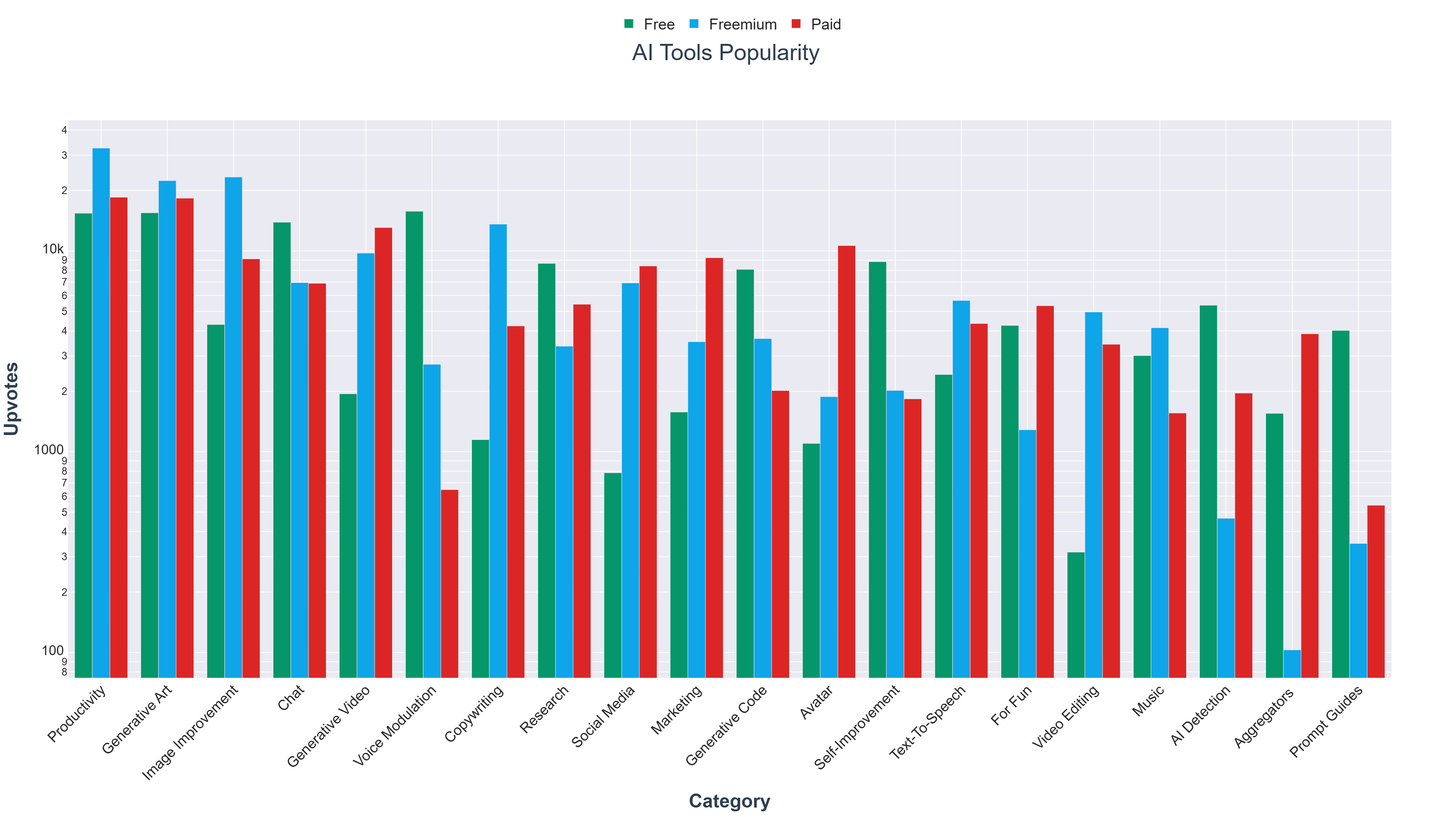
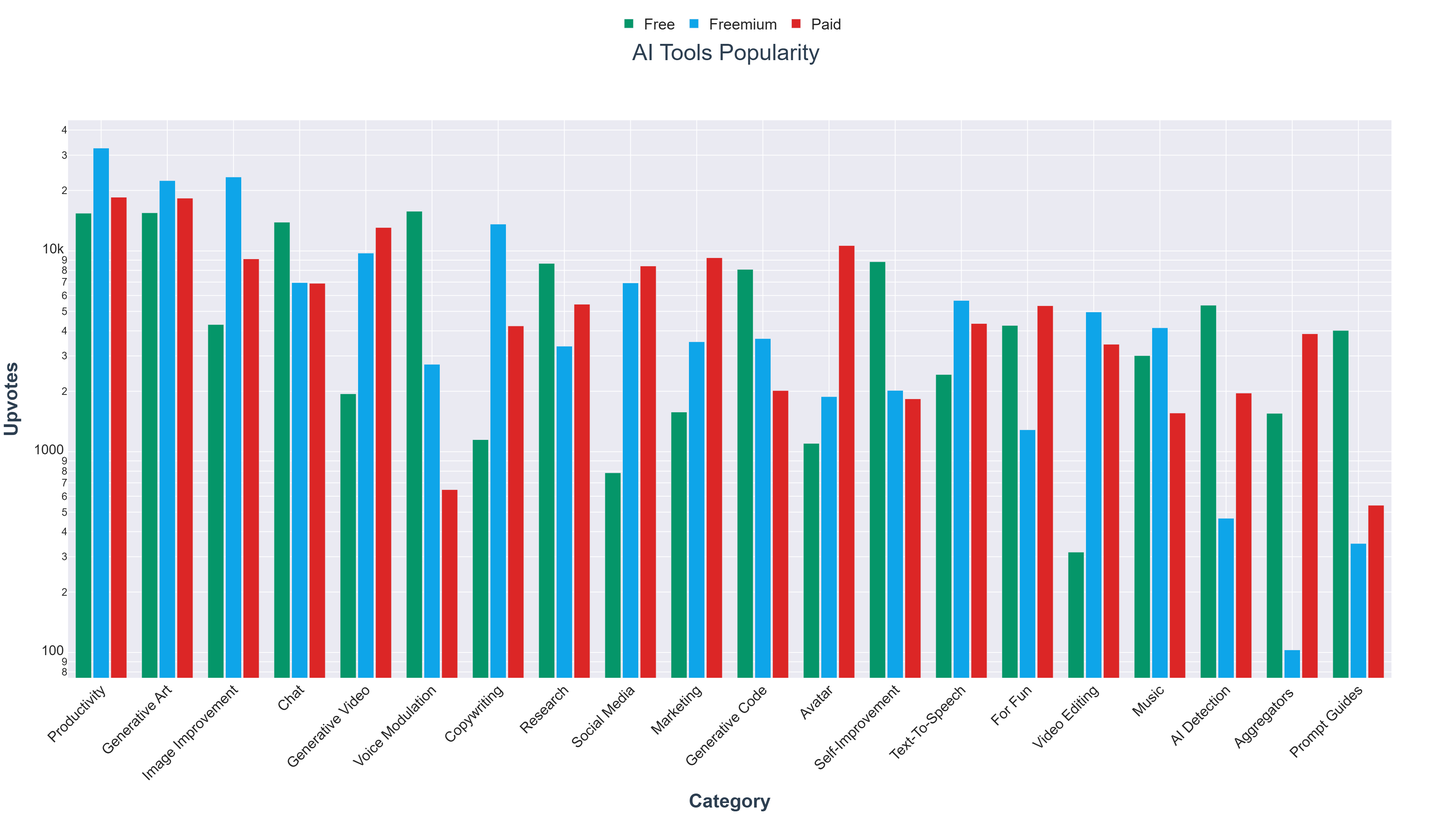
generated  image and html for ai tools

diff --git a/ai_tools_chart.html b/ai_tools_chart.html
@@ -2,6 +2,6 @@
 <head><meta charset="utf-8" /></head>
 <body>
     <div>                        <script type="text/javascript">window.PlotlyConfig = {MathJaxConfig: 'local'};</script>
-        <script charset="utf-8" src="https://cdn.plot.ly/plotly-3.3.0.min.js" integrity="sha256-bO3dS6yCpk9aK4gUpNELtCiDeSYvGYnK7jFI58NQnHI=" crossorigin="anonymous"></script>                <div id="9495e06f-c75b-4f86-87a5-4986203f30ba" class="plotly-graph-div" style="height:100%; width:100%;"></div>            <script type="text/javascript">                window.PLOTLYENV=window.PLOTLYENV || {};                                if (document.getElementById("9495e06f-c75b-4f86-87a5-4986203f30ba")) {                    Plotly.newPlot(                        "9495e06f-c75b-4f86-87a5-4986203f30ba",                        [{"alignmentgroup":"True","hovertemplate":"Price=Free\u003cbr\u003eCategory=%{x}\u003cbr\u003eUpvotes=%{y}\u003cextra\u003e\u003c\u002fextra\u003e","legendgroup":"Free","marker":{"color":"#059669","pattern":{"shape":""}},"name":"Free","offsetgroup":"Free","orientation":"v","showlegend":true,"textposition":"auto","x":["AI Detection","Aggregators ","Avatar","Chat","Copywriting","For Fun","Generative Art","Generative Code","Generative Video","Image Improvement","Marketing","Music","Productivity","Prompt Guides","Research","Self-Improvement","Social Media","Text-To-Speech","Video Editing","Voice Modulation"],"xaxis":"x","y":{"dtype":"i2","bdata":"8xQQBkwERTZ8BJ0QdjycH5cHyhAoBsILKTyuD9YhgiIRA3gJPAGIPQ=="},"yaxis":"y","type":"bar"},{"alignmentgroup":"True","hovertemplate":"Price=Freemium\u003cbr\u003eCategory=%{x}\u003cbr\u003eUpvotes=%{y}\u003cextra\u003e\u003c\u002fextra\u003e","legendgroup":"Freemium","marker":{"color":"#0ea5e9","pattern":{"shape":""}},"name":"Freemium","offsetgroup":"Freemium","orientation":"v","showlegend":true,"textposition":"auto","x":["AI Detection","Aggregators ","Avatar","Chat","Copywriting","For Fun","Generative Art","Generative Code","Generative Video","Image Improvement","Marketing","Music","Productivity","Prompt Guides","Research","Self-Improvement","Social Media","Text-To-Speech","Video Editing","Voice Modulation"],"xaxis":"x","y":{"dtype":"i2","bdata":"0gFnAFgHKhsaNQYFb1dMDhsmKVvHDSwQ835dARoN4wcOGx4WZBOlCg=="},"yaxis":"y","type":"bar"},{"alignmentgroup":"True","hovertemplate":"Price=Paid\u003cbr\u003eCategory=%{x}\u003cbr\u003eUpvotes=%{y}\u003cextra\u003e\u003c\u002fextra\u003e","legendgroup":"Paid","marker":{"color":"#dc2626","pattern":{"shape":""}},"name":"Paid","offsetgroup":"Paid","orientation":"v","showlegend":true,"textposition":"auto","x":["AI Detection","Aggregators ","Avatar","Chat","Copywriting","For Fun","Generative Art","Generative Code","Generative Video","Image Improvement","Marketing","Music","Productivity","Prompt Guides","Research","Self-Improvement","Social Media","Text-To-Speech","Video Editing","Voice Modulation"],"xaxis":"x","y":{"dtype":"i2","bdata":"pwcZD4kp8BqFENYUhEffBxEzpSMcJBYGTkgdAjIVKQfcIP0QZQ2HAg=="},"yaxis":"y","type":"bar"}],                        {"template":{"data":{"barpolar":[{"marker":{"line":{"color":"rgb(234,234,242)","width":0.5},"pattern":{"fillmode":"overlay","size":10,"solidity":0.2}},"type":"barpolar"}],"bar":[{"error_x":{"color":"rgb(36,36,36)"},"error_y":{"color":"rgb(36,36,36)"},"marker":{"line":{"color":"rgb(234,234,242)","width":0.5},"pattern":{"fillmode":"overlay","size":10,"solidity":0.2}},"type":"bar"}],"carpet":[{"aaxis":{"endlinecolor":"rgb(36,36,36)","gridcolor":"white","linecolor":"white","minorgridcolor":"white","startlinecolor":"rgb(36,36,36)"},"baxis":{"endlinecolor":"rgb(36,36,36)","gridcolor":"white","linecolor":"white","minorgridcolor":"white","startlinecolor":"rgb(36,36,36)"},"type":"carpet"}],"choropleth":[{"colorbar":{"outlinewidth":0,"tickcolor":"rgb(36,36,36)","ticklen":8,"ticks":"outside","tickwidth":2},"type":"choropleth"}],"contourcarpet":[{"colorbar":{"outlinewidth":0,"tickcolor":"rgb(36,36,36)","ticklen":8,"ticks":"outside","tickwidth":2},"type":"contourcarpet"}],"contour":[{"colorbar":{"outlinewidth":0,"tickcolor":"rgb(36,36,36)","ticklen":8,"ticks":"outside","tickwidth":2},"colorscale":[[0.0,"rgb(2,4,25)"],[0.06274509803921569,"rgb(24,15,41)"],[0.12549019607843137,"rgb(47,23,57)"],[0.18823529411764706,"rgb(71,28,72)"],[0.25098039215686274,"rgb(97,30,82)"],[0.3137254901960784,"rgb(123,30,89)"],[0.3764705882352941,"rgb(150,27,91)"],[0.4392156862745098,"rgb(177,22,88)"],[0.5019607843137255,"rgb(203,26,79)"],[0.5647058823529412,"rgb(223,47,67)"],[0.6274509803921569,"rgb(236,76,61)"],[0.6901960784313725,"rgb(242,107,73)"],[0.7529411764705882,"rgb(244,135,95)"],[0.8156862745098039,"rgb(245,162,122)"],[0.8784313725490196,"rgb(246,188,153)"],[0.9411764705882353,"rgb(247,212,187)"],[1.0,"rgb(250,234,220)"]],"type":"contour"}],"heatmap":[{"colorbar":{"outlinewidth":0,"tickcolor":"rgb(36,36,36)","ticklen":8,"ticks":"outside","tickwidth":2},"colorscale":[[0.0,"rgb(2,4,25)"],[0.06274509803921569,"rgb(24,15,41)"],[0.12549019607843137,"rgb(47,23,57)"],[0.18823529411764706,"rgb(71,28,72)"],[0.25098039215686274,"rgb(97,30,82)"],[0.3137254901960784,"rgb(123,30,89)"],[0.3764705882352941,"rgb(150,27,91)"],[0.4392156862745098,"rgb(177,22,88)"],[0.5019607843137255,"rgb(203,26,79)"],[0.5647058823529412,"rgb(223,47,67)"],[0.6274509803921569,"rgb(236,76,61)"],[0.6901960784313725,"rgb(242,107,73)"],[0.7529411764705882,"rgb(244,135,95)"],[0.8156862745098039,"rgb(245,162,122)"],[0.8784313725490196,"rgb(246,188,153)"],[0.9411764705882353,"rgb(247,212,187)"],[1.0,"rgb(250,234,220)"]],"type":"heatmap"}],"histogram2dcontour":[{"colorbar":{"outlinewidth":0,"tickcolor":"rgb(36,36,36)","ticklen":8,"ticks":"outside","tickwidth":2},"colorscale":[[0.0,"rgb(2,4,25)"],[0.06274509803921569,"rgb(24,15,41)"],[0.12549019607843137,"rgb(47,23,57)"],[0.18823529411764706,"rgb(71,28,72)"],[0.25098039215686274,"rgb(97,30,82)"],[0.3137254901960784,"rgb(123,30,89)"],[0.3764705882352941,"rgb(150,27,91)"],[0.4392156862745098,"rgb(177,22,88)"],[0.5019607843137255,"rgb(203,26,79)"],[0.5647058823529412,"rgb(223,47,67)"],[0.6274509803921569,"rgb(236,76,61)"],[0.6901960784313725,"rgb(242,107,73)"],[0.7529411764705882,"rgb(244,135,95)"],[0.8156862745098039,"rgb(245,162,122)"],[0.8784313725490196,"rgb(246,188,153)"],[0.9411764705882353,"rgb(247,212,187)"],[1.0,"rgb(250,234,220)"]],"type":"histogram2dcontour"}],"histogram2d":[{"colorbar":{"outlinewidth":0,"tickcolor":"rgb(36,36,36)","ticklen":8,"ticks":"outside","tickwidth":2},"colorscale":[[0.0,"rgb(2,4,25)"],[0.06274509803921569,"rgb(24,15,41)"],[0.12549019607843137,"rgb(47,23,57)"],[0.18823529411764706,"rgb(71,28,72)"],[0.25098039215686274,"rgb(97,30,82)"],[0.3137254901960784,"rgb(123,30,89)"],[0.3764705882352941,"rgb(150,27,91)"],[0.4392156862745098,"rgb(177,22,88)"],[0.5019607843137255,"rgb(203,26,79)"],[0.5647058823529412,"rgb(223,47,67)"],[0.6274509803921569,"rgb(236,76,61)"],[0.6901960784313725,"rgb(242,107,73)"],[0.7529411764705882,"rgb(244,135,95)"],[0.8156862745098039,"rgb(245,162,122)"],[0.8784313725490196,"rgb(246,188,153)"],[0.9411764705882353,"rgb(247,212,187)"],[1.0,"rgb(250,234,220)"]],"type":"histogram2d"}],"histogram":[{"marker":{"pattern":{"fillmode":"overlay","size":10,"solidity":0.2}},"type":"histogram"}],"mesh3d":[{"colorbar":{"outlinewidth":0,"tickcolor":"rgb(36,36,36)","ticklen":8,"ticks":"outside","tickwidth":2},"type":"mesh3d"}],"parcoords":[{"line":{"colorbar":{"outlinewidth":0,"tickcolor":"rgb(36,36,36)","ticklen":8,"ticks":"outside","tickwidth":2}},"type":"parcoords"}],"pie":[{"automargin":true,"type":"pie"}],"scatter3d":[{"line":{"colorbar":{"outlinewidth":0,"tickcolor":"rgb(36,36,36)","ticklen":8,"ticks":"outside","tickwidth":2}},"marker":{"colorbar":{"outlinewidth":0,"tickcolor":"rgb(36,36,36)","ticklen":8,"ticks":"outside","tickwidth":2}},"type":"scatter3d"}],"scattercarpet":[{"marker":{"colorbar":{"outlinewidth":0,"tickcolor":"rgb(36,36,36)","ticklen":8,"ticks":"outside","tickwidth":2}},"type":"scattercarpet"}],"scattergeo":[{"marker":{"colorbar":{"outlinewidth":0,"tickcolor":"rgb(36,36,36)","ticklen":8,"ticks":"outside","tickwidth":2}},"type":"scattergeo"}],"scattergl":[{"marker":{"colorbar":{"outlinewidth":0,"tickcolor":"rgb(36,36,36)","ticklen":8,"ticks":"outside","tickwidth":2}},"type":"scattergl"}],"scattermapbox":[{"marker":{"colorbar":{"outlinewidth":0,"tickcolor":"rgb(36,36,36)","ticklen":8,"ticks":"outside","tickwidth":2}},"type":"scattermapbox"}],"scattermap":[{"marker":{"colorbar":{"outlinewidth":0,"tickcolor":"rgb(36,36,36)","ticklen":8,"ticks":"outside","tickwidth":2}},"type":"scattermap"}],"scatterpolargl":[{"marker":{"colorbar":{"outlinewidth":0,"tickcolor":"rgb(36,36,36)","ticklen":8,"ticks":"outside","tickwidth":2}},"type":"scatterpolargl"}],"scatterpolar":[{"marker":{"colorbar":{"outlinewidth":0,"tickcolor":"rgb(36,36,36)","ticklen":8,"ticks":"outside","tickwidth":2}},"type":"scatterpolar"}],"scatter":[{"fillpattern":{"fillmode":"overlay","size":10,"solidity":0.2},"type":"scatter"}],"scatterternary":[{"marker":{"colorbar":{"outlinewidth":0,"tickcolor":"rgb(36,36,36)","ticklen":8,"ticks":"outside","tickwidth":2}},"type":"scatterternary"}],"surface":[{"colorbar":{"outlinewidth":0,"tickcolor":"rgb(36,36,36)","ticklen":8,"ticks":"outside","tickwidth":2},"colorscale":[[0.0,"rgb(2,4,25)"],[0.06274509803921569,"rgb(24,15,41)"],[0.12549019607843137,"rgb(47,23,57)"],[0.18823529411764706,"rgb(71,28,72)"],[0.25098039215686274,"rgb(97,30,82)"],[0.3137254901960784,"rgb(123,30,89)"],[0.3764705882352941,"rgb(150,27,91)"],[0.4392156862745098,"rgb(177,22,88)"],[0.5019607843137255,"rgb(203,26,79)"],[0.5647058823529412,"rgb(223,47,67)"],[0.6274509803921569,"rgb(236,76,61)"],[0.6901960784313725,"rgb(242,107,73)"],[0.7529411764705882,"rgb(244,135,95)"],[0.8156862745098039,"rgb(245,162,122)"],[0.8784313725490196,"rgb(246,188,153)"],[0.9411764705882353,"rgb(247,212,187)"],[1.0,"rgb(250,234,220)"]],"type":"surface"}],"table":[{"cells":{"fill":{"color":"rgb(231,231,240)"},"line":{"color":"white"}},"header":{"fill":{"color":"rgb(183,183,191)"},"line":{"color":"white"}},"type":"table"}]},"layout":{"annotationdefaults":{"arrowcolor":"rgb(67,103,167)"},"autotypenumbers":"strict","coloraxis":{"colorbar":{"outlinewidth":0,"tickcolor":"rgb(36,36,36)","ticklen":8,"ticks":"outside","tickwidth":2}},"colorscale":{"sequential":[[0.0,"rgb(2,4,25)"],[0.06274509803921569,"rgb(24,15,41)"],[0.12549019607843137,"rgb(47,23,57)"],[0.18823529411764706,"rgb(71,28,72)"],[0.25098039215686274,"rgb(97,30,82)"],[0.3137254901960784,"rgb(123,30,89)"],[0.3764705882352941,"rgb(150,27,91)"],[0.4392156862745098,"rgb(177,22,88)"],[0.5019607843137255,"rgb(203,26,79)"],[0.5647058823529412,"rgb(223,47,67)"],[0.6274509803921569,"rgb(236,76,61)"],[0.6901960784313725,"rgb(242,107,73)"],[0.7529411764705882,"rgb(244,135,95)"],[0.8156862745098039,"rgb(245,162,122)"],[0.8784313725490196,"rgb(246,188,153)"],[0.9411764705882353,"rgb(247,212,187)"],[1.0,"rgb(250,234,220)"]],"sequentialminus":[[0.0,"rgb(2,4,25)"],[0.06274509803921569,"rgb(24,15,41)"],[0.12549019607843137,"rgb(47,23,57)"],[0.18823529411764706,"rgb(71,28,72)"],[0.25098039215686274,"rgb(97,30,82)"],[0.3137254901960784,"rgb(123,30,89)"],[0.3764705882352941,"rgb(150,27,91)"],[0.4392156862745098,"rgb(177,22,88)"],[0.5019607843137255,"rgb(203,26,79)"],[0.5647058823529412,"rgb(223,47,67)"],[0.6274509803921569,"rgb(236,76,61)"],[0.6901960784313725,"rgb(242,107,73)"],[0.7529411764705882,"rgb(244,135,95)"],[0.8156862745098039,"rgb(245,162,122)"],[0.8784313725490196,"rgb(246,188,153)"],[0.9411764705882353,"rgb(247,212,187)"],[1.0,"rgb(250,234,220)"]]},"colorway":["rgb(76,114,176)","rgb(221,132,82)","rgb(85,168,104)","rgb(196,78,82)","rgb(129,114,179)","rgb(147,120,96)","rgb(218,139,195)","rgb(140,140,140)","rgb(204,185,116)","rgb(100,181,205)"],"font":{"color":"rgb(36,36,36)"},"geo":{"bgcolor":"white","lakecolor":"white","landcolor":"rgb(234,234,242)","showlakes":true,"showland":true,"subunitcolor":"white"},"hoverlabel":{"align":"left"},"hovermode":"closest","paper_bgcolor":"white","plot_bgcolor":"rgb(234,234,242)","polar":{"angularaxis":{"gridcolor":"white","linecolor":"white","showgrid":true,"ticks":""},"bgcolor":"rgb(234,234,242)","radialaxis":{"gridcolor":"white","linecolor":"white","showgrid":true,"ticks":""}},"scene":{"xaxis":{"backgroundcolor":"rgb(234,234,242)","gridcolor":"white","gridwidth":2,"linecolor":"white","showbackground":true,"showgrid":true,"ticks":"","zerolinecolor":"white"},"yaxis":{"backgroundcolor":"rgb(234,234,242)","gridcolor":"white","gridwidth":2,"linecolor":"white","showbackground":true,"showgrid":true,"ticks":"","zerolinecolor":"white"},"zaxis":{"backgroundcolor":"rgb(234,234,242)","gridcolor":"white","gridwidth":2,"linecolor":"white","showbackground":true,"showgrid":true,"ticks":"","zerolinecolor":"white"}},"shapedefaults":{"fillcolor":"rgb(67,103,167)","line":{"width":0},"opacity":0.5},"ternary":{"aaxis":{"gridcolor":"white","linecolor":"white","showgrid":true,"ticks":""},"baxis":{"gridcolor":"white","linecolor":"white","showgrid":true,"ticks":""},"bgcolor":"rgb(234,234,242)","caxis":{"gridcolor":"white","linecolor":"white","showgrid":true,"ticks":""}},"xaxis":{"automargin":true,"gridcolor":"white","linecolor":"white","showgrid":true,"ticks":"","title":{"standoff":15},"zerolinecolor":"white"},"yaxis":{"automargin":true,"gridcolor":"white","linecolor":"white","showgrid":true,"ticks":"","title":{"standoff":15},"zerolinecolor":"white"}}},"xaxis":{"anchor":"y","domain":[0.0,1.0],"title":{"text":"\u003cb\u003eCategory\u003c\u002fb\u003e","font":{"size":18,"color":"#2c3e50","family":"Helvetica Neue, sans-serif"}},"categoryorder":"array","categoryarray":["Productivity","Generative Art","Image Improvement","Chat","Generative Video","Voice Modulation","Copywriting","Research","Social Media","Marketing","Generative Code","Avatar","Self-Improvement","Text-To-Speech","For Fun","Video Editing","Music","AI Detection","Aggregators ","Prompt Guides"],"tickangle":-45},"yaxis":{"anchor":"x","domain":[0.0,1.0],"title":{"text":"\u003cb\u003eUpvotes\u003c\u002fb\u003e","font":{"size":18,"color":"#2c3e50","family":"Helvetica Neue, sans-serif"}},"type":"log"},"legend":{"title":{"text":""},"tracegroupgap":0,"font":{"size":14},"orientation":"h","x":0.5,"y":1.2,"xanchor":"center","yanchor":"top"},"title":{"text":"AI Tools Popularity","font":{"family":"Helvetica Neue, sans-serif","size":22,"color":"#2c3e50"}},"barmode":"group","font":{"family":"Helvetica Neue, sans-serif","size":15}},                        {"responsive": true}                    )                };            </script>        </div>
+        <script charset="utf-8" src="https://cdn.plot.ly/plotly-3.3.0.min.js" integrity="sha256-bO3dS6yCpk9aK4gUpNELtCiDeSYvGYnK7jFI58NQnHI=" crossorigin="anonymous"></script>                <div id="b90ad62e-db47-48b5-b7ab-2d6496fe9904" class="plotly-graph-div" style="height:100%; width:100%;"></div>            <script type="text/javascript">                window.PLOTLYENV=window.PLOTLYENV || {};                                if (document.getElementById("b90ad62e-db47-48b5-b7ab-2d6496fe9904")) {                    Plotly.newPlot(                        "b90ad62e-db47-48b5-b7ab-2d6496fe9904",                        [{"alignmentgroup":"True","hovertemplate":"\u003cb\u003eUpvotes:\u003c\u002fb\u003e %{y:,.0f}\u003cextra\u003e\u003c\u002fextra\u003e","legendgroup":"Free","marker":{"color":"#059669","pattern":{"shape":""}},"name":"Free","offsetgroup":"Free","orientation":"v","showlegend":true,"textposition":"auto","x":["AI Detection","Aggregators ","Avatar","Chat","Copywriting","For Fun","Generative Art","Generative Code","Generative Video","Image Improvement","Marketing","Music","Productivity","Prompt Guides","Research","Self-Improvement","Social Media","Text-To-Speech","Video Editing","Voice Modulation"],"xaxis":"x","y":{"dtype":"i2","bdata":"8xQQBkwERTZ8BJ0QdjycH5cHyhAoBsILKTyuD9YhgiIRA3gJPAGIPQ=="},"yaxis":"y","type":"bar"},{"alignmentgroup":"True","hovertemplate":"\u003cb\u003eUpvotes:\u003c\u002fb\u003e %{y:,.0f}\u003cextra\u003e\u003c\u002fextra\u003e","legendgroup":"Freemium","marker":{"color":"#0ea5e9","pattern":{"shape":""}},"name":"Freemium","offsetgroup":"Freemium","orientation":"v","showlegend":true,"textposition":"auto","x":["AI Detection","Aggregators ","Avatar","Chat","Copywriting","For Fun","Generative Art","Generative Code","Generative Video","Image Improvement","Marketing","Music","Productivity","Prompt Guides","Research","Self-Improvement","Social Media","Text-To-Speech","Video Editing","Voice Modulation"],"xaxis":"x","y":{"dtype":"i2","bdata":"0gFnAFgHKhsaNQYFb1dMDhsmKVvHDSwQ835dARoN4wcOGx4WZBOlCg=="},"yaxis":"y","type":"bar"},{"alignmentgroup":"True","hovertemplate":"\u003cb\u003eUpvotes:\u003c\u002fb\u003e %{y:,.0f}\u003cextra\u003e\u003c\u002fextra\u003e","legendgroup":"Paid","marker":{"color":"#dc2626","pattern":{"shape":""}},"name":"Paid","offsetgroup":"Paid","orientation":"v","showlegend":true,"textposition":"auto","x":["AI Detection","Aggregators ","Avatar","Chat","Copywriting","For Fun","Generative Art","Generative Code","Generative Video","Image Improvement","Marketing","Music","Productivity","Prompt Guides","Research","Self-Improvement","Social Media","Text-To-Speech","Video Editing","Voice Modulation"],"xaxis":"x","y":{"dtype":"i2","bdata":"pwcZD4kp8BqFENYUhEffBxEzpSMcJBYGTkgdAjIVKQfcIP0QZQ2HAg=="},"yaxis":"y","type":"bar"}],                        {"template":{"data":{"barpolar":[{"marker":{"line":{"color":"rgb(234,234,242)","width":0.5},"pattern":{"fillmode":"overlay","size":10,"solidity":0.2}},"type":"barpolar"}],"bar":[{"error_x":{"color":"rgb(36,36,36)"},"error_y":{"color":"rgb(36,36,36)"},"marker":{"line":{"color":"rgb(234,234,242)","width":0.5},"pattern":{"fillmode":"overlay","size":10,"solidity":0.2}},"type":"bar"}],"carpet":[{"aaxis":{"endlinecolor":"rgb(36,36,36)","gridcolor":"white","linecolor":"white","minorgridcolor":"white","startlinecolor":"rgb(36,36,36)"},"baxis":{"endlinecolor":"rgb(36,36,36)","gridcolor":"white","linecolor":"white","minorgridcolor":"white","startlinecolor":"rgb(36,36,36)"},"type":"carpet"}],"choropleth":[{"colorbar":{"outlinewidth":0,"tickcolor":"rgb(36,36,36)","ticklen":8,"ticks":"outside","tickwidth":2},"type":"choropleth"}],"contourcarpet":[{"colorbar":{"outlinewidth":0,"tickcolor":"rgb(36,36,36)","ticklen":8,"ticks":"outside","tickwidth":2},"type":"contourcarpet"}],"contour":[{"colorbar":{"outlinewidth":0,"tickcolor":"rgb(36,36,36)","ticklen":8,"ticks":"outside","tickwidth":2},"colorscale":[[0.0,"rgb(2,4,25)"],[0.06274509803921569,"rgb(24,15,41)"],[0.12549019607843137,"rgb(47,23,57)"],[0.18823529411764706,"rgb(71,28,72)"],[0.25098039215686274,"rgb(97,30,82)"],[0.3137254901960784,"rgb(123,30,89)"],[0.3764705882352941,"rgb(150,27,91)"],[0.4392156862745098,"rgb(177,22,88)"],[0.5019607843137255,"rgb(203,26,79)"],[0.5647058823529412,"rgb(223,47,67)"],[0.6274509803921569,"rgb(236,76,61)"],[0.6901960784313725,"rgb(242,107,73)"],[0.7529411764705882,"rgb(244,135,95)"],[0.8156862745098039,"rgb(245,162,122)"],[0.8784313725490196,"rgb(246,188,153)"],[0.9411764705882353,"rgb(247,212,187)"],[1.0,"rgb(250,234,220)"]],"type":"contour"}],"heatmap":[{"colorbar":{"outlinewidth":0,"tickcolor":"rgb(36,36,36)","ticklen":8,"ticks":"outside","tickwidth":2},"colorscale":[[0.0,"rgb(2,4,25)"],[0.06274509803921569,"rgb(24,15,41)"],[0.12549019607843137,"rgb(47,23,57)"],[0.18823529411764706,"rgb(71,28,72)"],[0.25098039215686274,"rgb(97,30,82)"],[0.3137254901960784,"rgb(123,30,89)"],[0.3764705882352941,"rgb(150,27,91)"],[0.4392156862745098,"rgb(177,22,88)"],[0.5019607843137255,"rgb(203,26,79)"],[0.5647058823529412,"rgb(223,47,67)"],[0.6274509803921569,"rgb(236,76,61)"],[0.6901960784313725,"rgb(242,107,73)"],[0.7529411764705882,"rgb(244,135,95)"],[0.8156862745098039,"rgb(245,162,122)"],[0.8784313725490196,"rgb(246,188,153)"],[0.9411764705882353,"rgb(247,212,187)"],[1.0,"rgb(250,234,220)"]],"type":"heatmap"}],"histogram2dcontour":[{"colorbar":{"outlinewidth":0,"tickcolor":"rgb(36,36,36)","ticklen":8,"ticks":"outside","tickwidth":2},"colorscale":[[0.0,"rgb(2,4,25)"],[0.06274509803921569,"rgb(24,15,41)"],[0.12549019607843137,"rgb(47,23,57)"],[0.18823529411764706,"rgb(71,28,72)"],[0.25098039215686274,"rgb(97,30,82)"],[0.3137254901960784,"rgb(123,30,89)"],[0.3764705882352941,"rgb(150,27,91)"],[0.4392156862745098,"rgb(177,22,88)"],[0.5019607843137255,"rgb(203,26,79)"],[0.5647058823529412,"rgb(223,47,67)"],[0.6274509803921569,"rgb(236,76,61)"],[0.6901960784313725,"rgb(242,107,73)"],[0.7529411764705882,"rgb(244,135,95)"],[0.8156862745098039,"rgb(245,162,122)"],[0.8784313725490196,"rgb(246,188,153)"],[0.9411764705882353,"rgb(247,212,187)"],[1.0,"rgb(250,234,220)"]],"type":"histogram2dcontour"}],"histogram2d":[{"colorbar":{"outlinewidth":0,"tickcolor":"rgb(36,36,36)","ticklen":8,"ticks":"outside","tickwidth":2},"colorscale":[[0.0,"rgb(2,4,25)"],[0.06274509803921569,"rgb(24,15,41)"],[0.12549019607843137,"rgb(47,23,57)"],[0.18823529411764706,"rgb(71,28,72)"],[0.25098039215686274,"rgb(97,30,82)"],[0.3137254901960784,"rgb(123,30,89)"],[0.3764705882352941,"rgb(150,27,91)"],[0.4392156862745098,"rgb(177,22,88)"],[0.5019607843137255,"rgb(203,26,79)"],[0.5647058823529412,"rgb(223,47,67)"],[0.6274509803921569,"rgb(236,76,61)"],[0.6901960784313725,"rgb(242,107,73)"],[0.7529411764705882,"rgb(244,135,95)"],[0.8156862745098039,"rgb(245,162,122)"],[0.8784313725490196,"rgb(246,188,153)"],[0.9411764705882353,"rgb(247,212,187)"],[1.0,"rgb(250,234,220)"]],"type":"histogram2d"}],"histogram":[{"marker":{"pattern":{"fillmode":"overlay","size":10,"solidity":0.2}},"type":"histogram"}],"mesh3d":[{"colorbar":{"outlinewidth":0,"tickcolor":"rgb(36,36,36)","ticklen":8,"ticks":"outside","tickwidth":2},"type":"mesh3d"}],"parcoords":[{"line":{"colorbar":{"outlinewidth":0,"tickcolor":"rgb(36,36,36)","ticklen":8,"ticks":"outside","tickwidth":2}},"type":"parcoords"}],"pie":[{"automargin":true,"type":"pie"}],"scatter3d":[{"line":{"colorbar":{"outlinewidth":0,"tickcolor":"rgb(36,36,36)","ticklen":8,"ticks":"outside","tickwidth":2}},"marker":{"colorbar":{"outlinewidth":0,"tickcolor":"rgb(36,36,36)","ticklen":8,"ticks":"outside","tickwidth":2}},"type":"scatter3d"}],"scattercarpet":[{"marker":{"colorbar":{"outlinewidth":0,"tickcolor":"rgb(36,36,36)","ticklen":8,"ticks":"outside","tickwidth":2}},"type":"scattercarpet"}],"scattergeo":[{"marker":{"colorbar":{"outlinewidth":0,"tickcolor":"rgb(36,36,36)","ticklen":8,"ticks":"outside","tickwidth":2}},"type":"scattergeo"}],"scattergl":[{"marker":{"colorbar":{"outlinewidth":0,"tickcolor":"rgb(36,36,36)","ticklen":8,"ticks":"outside","tickwidth":2}},"type":"scattergl"}],"scattermapbox":[{"marker":{"colorbar":{"outlinewidth":0,"tickcolor":"rgb(36,36,36)","ticklen":8,"ticks":"outside","tickwidth":2}},"type":"scattermapbox"}],"scattermap":[{"marker":{"colorbar":{"outlinewidth":0,"tickcolor":"rgb(36,36,36)","ticklen":8,"ticks":"outside","tickwidth":2}},"type":"scattermap"}],"scatterpolargl":[{"marker":{"colorbar":{"outlinewidth":0,"tickcolor":"rgb(36,36,36)","ticklen":8,"ticks":"outside","tickwidth":2}},"type":"scatterpolargl"}],"scatterpolar":[{"marker":{"colorbar":{"outlinewidth":0,"tickcolor":"rgb(36,36,36)","ticklen":8,"ticks":"outside","tickwidth":2}},"type":"scatterpolar"}],"scatter":[{"fillpattern":{"fillmode":"overlay","size":10,"solidity":0.2},"type":"scatter"}],"scatterternary":[{"marker":{"colorbar":{"outlinewidth":0,"tickcolor":"rgb(36,36,36)","ticklen":8,"ticks":"outside","tickwidth":2}},"type":"scatterternary"}],"surface":[{"colorbar":{"outlinewidth":0,"tickcolor":"rgb(36,36,36)","ticklen":8,"ticks":"outside","tickwidth":2},"colorscale":[[0.0,"rgb(2,4,25)"],[0.06274509803921569,"rgb(24,15,41)"],[0.12549019607843137,"rgb(47,23,57)"],[0.18823529411764706,"rgb(71,28,72)"],[0.25098039215686274,"rgb(97,30,82)"],[0.3137254901960784,"rgb(123,30,89)"],[0.3764705882352941,"rgb(150,27,91)"],[0.4392156862745098,"rgb(177,22,88)"],[0.5019607843137255,"rgb(203,26,79)"],[0.5647058823529412,"rgb(223,47,67)"],[0.6274509803921569,"rgb(236,76,61)"],[0.6901960784313725,"rgb(242,107,73)"],[0.7529411764705882,"rgb(244,135,95)"],[0.8156862745098039,"rgb(245,162,122)"],[0.8784313725490196,"rgb(246,188,153)"],[0.9411764705882353,"rgb(247,212,187)"],[1.0,"rgb(250,234,220)"]],"type":"surface"}],"table":[{"cells":{"fill":{"color":"rgb(231,231,240)"},"line":{"color":"white"}},"header":{"fill":{"color":"rgb(183,183,191)"},"line":{"color":"white"}},"type":"table"}]},"layout":{"annotationdefaults":{"arrowcolor":"rgb(67,103,167)"},"autotypenumbers":"strict","coloraxis":{"colorbar":{"outlinewidth":0,"tickcolor":"rgb(36,36,36)","ticklen":8,"ticks":"outside","tickwidth":2}},"colorscale":{"sequential":[[0.0,"rgb(2,4,25)"],[0.06274509803921569,"rgb(24,15,41)"],[0.12549019607843137,"rgb(47,23,57)"],[0.18823529411764706,"rgb(71,28,72)"],[0.25098039215686274,"rgb(97,30,82)"],[0.3137254901960784,"rgb(123,30,89)"],[0.3764705882352941,"rgb(150,27,91)"],[0.4392156862745098,"rgb(177,22,88)"],[0.5019607843137255,"rgb(203,26,79)"],[0.5647058823529412,"rgb(223,47,67)"],[0.6274509803921569,"rgb(236,76,61)"],[0.6901960784313725,"rgb(242,107,73)"],[0.7529411764705882,"rgb(244,135,95)"],[0.8156862745098039,"rgb(245,162,122)"],[0.8784313725490196,"rgb(246,188,153)"],[0.9411764705882353,"rgb(247,212,187)"],[1.0,"rgb(250,234,220)"]],"sequentialminus":[[0.0,"rgb(2,4,25)"],[0.06274509803921569,"rgb(24,15,41)"],[0.12549019607843137,"rgb(47,23,57)"],[0.18823529411764706,"rgb(71,28,72)"],[0.25098039215686274,"rgb(97,30,82)"],[0.3137254901960784,"rgb(123,30,89)"],[0.3764705882352941,"rgb(150,27,91)"],[0.4392156862745098,"rgb(177,22,88)"],[0.5019607843137255,"rgb(203,26,79)"],[0.5647058823529412,"rgb(223,47,67)"],[0.6274509803921569,"rgb(236,76,61)"],[0.6901960784313725,"rgb(242,107,73)"],[0.7529411764705882,"rgb(244,135,95)"],[0.8156862745098039,"rgb(245,162,122)"],[0.8784313725490196,"rgb(246,188,153)"],[0.9411764705882353,"rgb(247,212,187)"],[1.0,"rgb(250,234,220)"]]},"colorway":["rgb(76,114,176)","rgb(221,132,82)","rgb(85,168,104)","rgb(196,78,82)","rgb(129,114,179)","rgb(147,120,96)","rgb(218,139,195)","rgb(140,140,140)","rgb(204,185,116)","rgb(100,181,205)"],"font":{"color":"rgb(36,36,36)"},"geo":{"bgcolor":"white","lakecolor":"white","landcolor":"rgb(234,234,242)","showlakes":true,"showland":true,"subunitcolor":"white"},"hoverlabel":{"align":"left"},"hovermode":"closest","paper_bgcolor":"white","plot_bgcolor":"rgb(234,234,242)","polar":{"angularaxis":{"gridcolor":"white","linecolor":"white","showgrid":true,"ticks":""},"bgcolor":"rgb(234,234,242)","radialaxis":{"gridcolor":"white","linecolor":"white","showgrid":true,"ticks":""}},"scene":{"xaxis":{"backgroundcolor":"rgb(234,234,242)","gridcolor":"white","gridwidth":2,"linecolor":"white","showbackground":true,"showgrid":true,"ticks":"","zerolinecolor":"white"},"yaxis":{"backgroundcolor":"rgb(234,234,242)","gridcolor":"white","gridwidth":2,"linecolor":"white","showbackground":true,"showgrid":true,"ticks":"","zerolinecolor":"white"},"zaxis":{"backgroundcolor":"rgb(234,234,242)","gridcolor":"white","gridwidth":2,"linecolor":"white","showbackground":true,"showgrid":true,"ticks":"","zerolinecolor":"white"}},"shapedefaults":{"fillcolor":"rgb(67,103,167)","line":{"width":0},"opacity":0.5},"ternary":{"aaxis":{"gridcolor":"white","linecolor":"white","showgrid":true,"ticks":""},"baxis":{"gridcolor":"white","linecolor":"white","showgrid":true,"ticks":""},"bgcolor":"rgb(234,234,242)","caxis":{"gridcolor":"white","linecolor":"white","showgrid":true,"ticks":""}},"xaxis":{"automargin":true,"gridcolor":"white","linecolor":"white","showgrid":true,"ticks":"","title":{"standoff":15},"zerolinecolor":"white"},"yaxis":{"automargin":true,"gridcolor":"white","linecolor":"white","showgrid":true,"ticks":"","title":{"standoff":15},"zerolinecolor":"white"}}},"xaxis":{"anchor":"y","domain":[0.0,1.0],"title":{"text":"\u003cb\u003eCategory\u003c\u002fb\u003e","font":{"size":18,"color":"#2c3e50","family":"Helvetica Neue, sans-serif"}},"categoryorder":"array","categoryarray":["Productivity","Generative Art","Image Improvement","Chat","Generative Video","Voice Modulation","Copywriting","Research","Social Media","Marketing","Generative Code","Avatar","Self-Improvement","Text-To-Speech","For Fun","Video Editing","Music","AI Detection","Aggregators ","Prompt Guides"],"tickangle":-45},"yaxis":{"anchor":"x","domain":[0.0,1.0],"title":{"text":"\u003cb\u003eUpvotes\u003c\u002fb\u003e","font":{"size":18,"color":"#2c3e50","family":"Helvetica Neue, sans-serif"}},"type":"log"},"legend":{"title":{"text":""},"tracegroupgap":0,"font":{"size":14},"orientation":"h","x":0.5,"y":1.2,"xanchor":"center","yanchor":"top"},"title":{"text":"AI Tools Popularity","font":{"family":"Helvetica Neue, sans-serif","size":22,"color":"#2c3e50"}},"barmode":"group","font":{"family":"Helvetica Neue, sans-serif","size":15},"bargap":0.2,"bargroupgap":0.1},                        {"responsive": true}                    )                };            </script>        </div>
 </body>
 </html>
